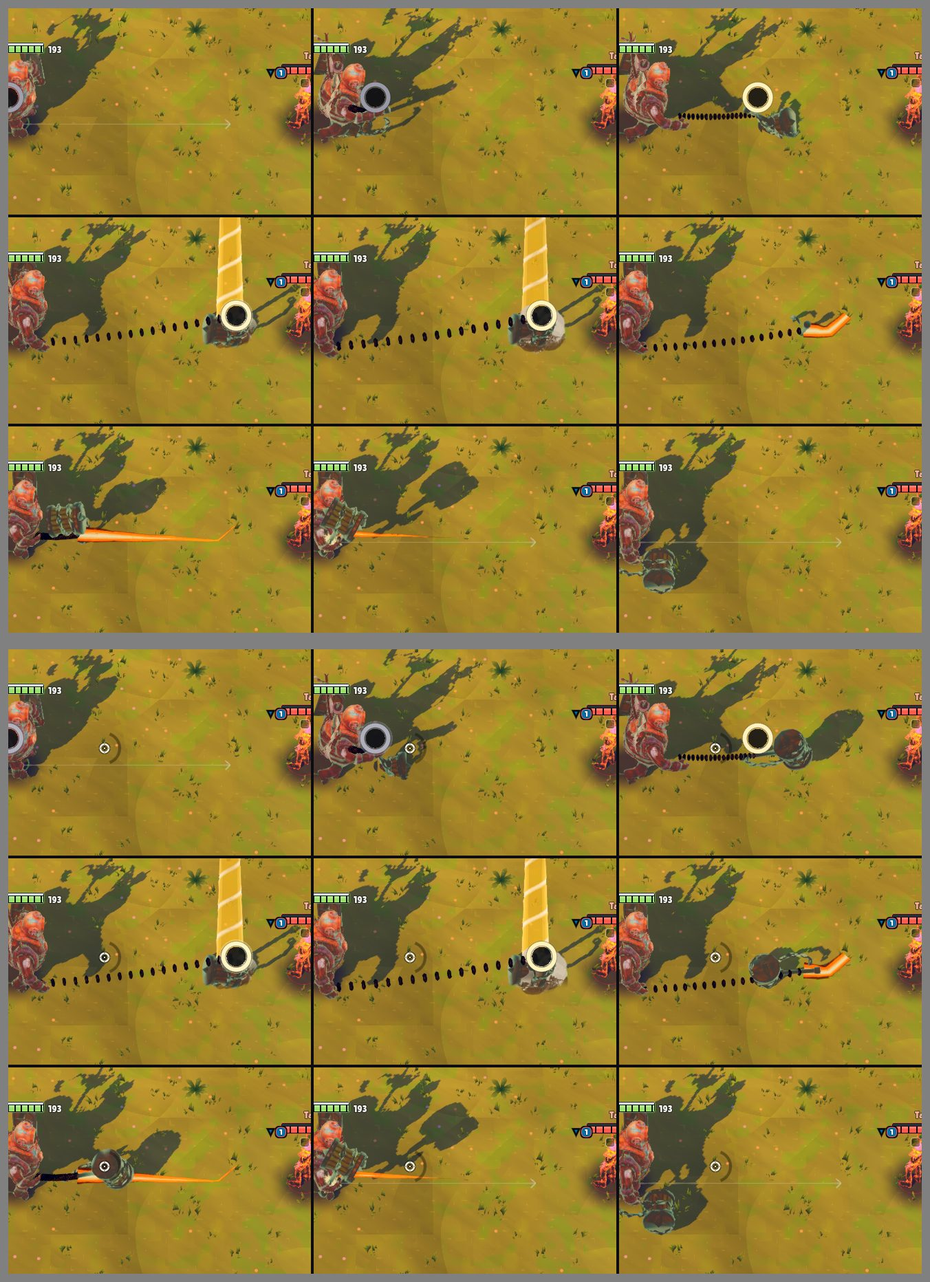
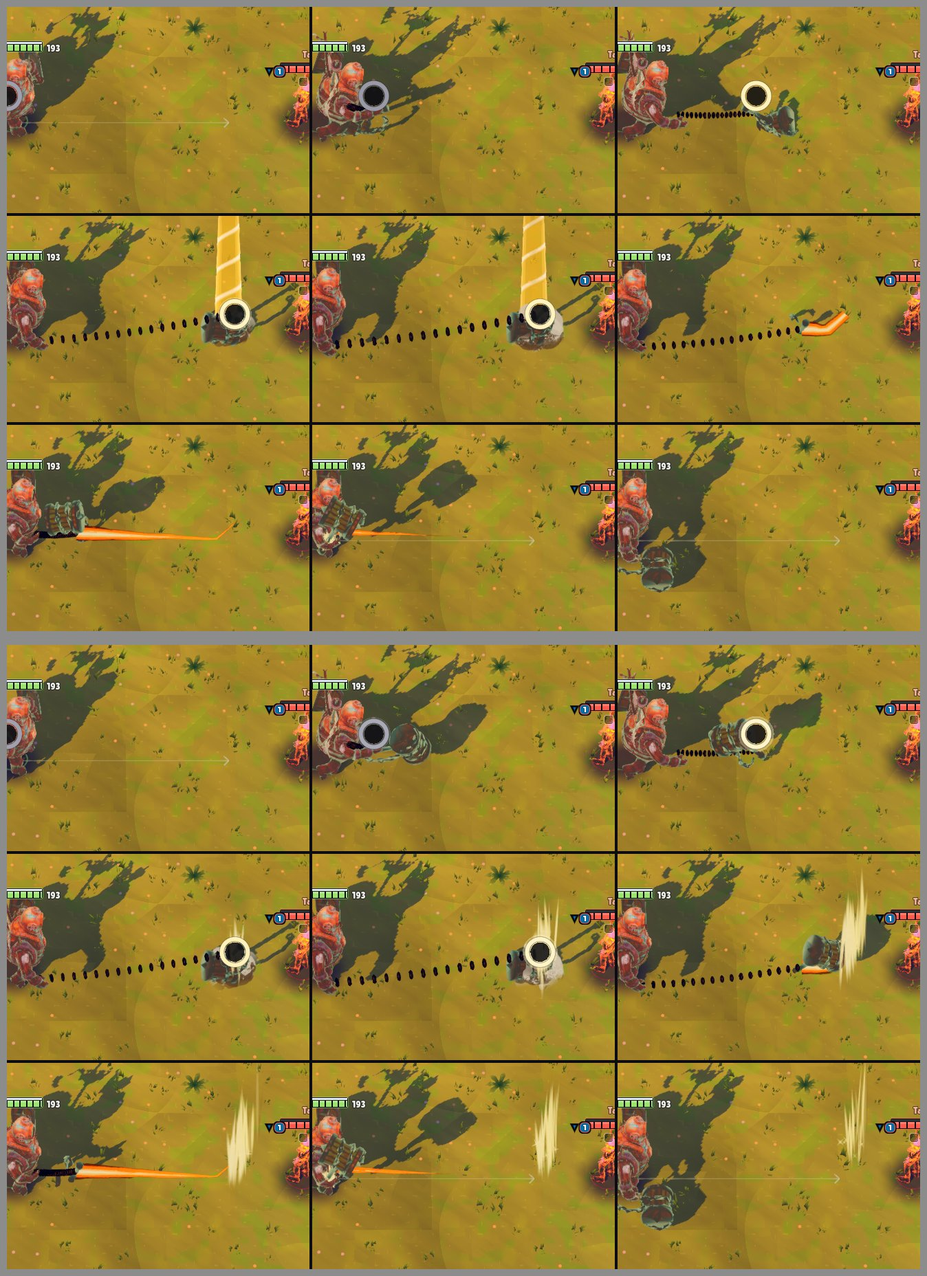
Albert VFX data: GPU strips for the beacon, dash wake and Mending Ground (before main, after this branch)

diff --git a/docs/VFX_QUALITY.md b/docs/VFX_QUALITY.md
@@ -108,7 +108,9 @@ unchanged. Second pass (same branch): the planted hammer's beacon (`plant_beacon
 beam), the dash wake (`dash`: ivory specks and dust on his body, was gold and ember chevron bands), and Mending Ground's
 light column (`mend_fall`: ivory light falling onto the zone during its 1 s delay, was a gold beam) and standing zone
 (`mend_zone`: rising ivory specks and pluses inside AimKit's lit rim, no fill; was a second code-drawn disc) are
-`HeroVfx` holds; the end burst is `mend_burst` alone. `HeroVfx.hold` follows a moving `at` (the zone follows the hammer).
+`HeroVfx` holds; the end burst is `mend_burst` alone. Strips redone from jobq 20261120-153944-25090 (after, same before):
+`e_before_after.jpg` green (the opaque gold cone that hid him is gone), `throw` and `dash` grey (in his palette now, but the
+ray is slimmer than the old beam and the wake reads about the same). `HeroVfx.hold` follows a moving `at` (the zone follows the hammer).
 `BjornFx` keeps only the meshes that ride his hammer and shield (thrown hammer and rope, whirl trail and glint, the plated
 wall), and the shared charge ring is his ivory, not gold. GPU strips at match zoom, grey = main (top), border green = better, grey = no change: `docs/shots/albert-vfx-data/{throw,dash,wall,r}_before_after.jpg` (jobq 20261120-145918-29886 before, -145258-27518 after, `--hero-vfx-reel --reel-hero=bulwark`). The throw and the 360 Smash look the same (their looks were already data); the Faultline landing loses its dust rings, the wall and charge ring are ivory.
 ## Scorecard: before (11-08) and re-score (11-09)
